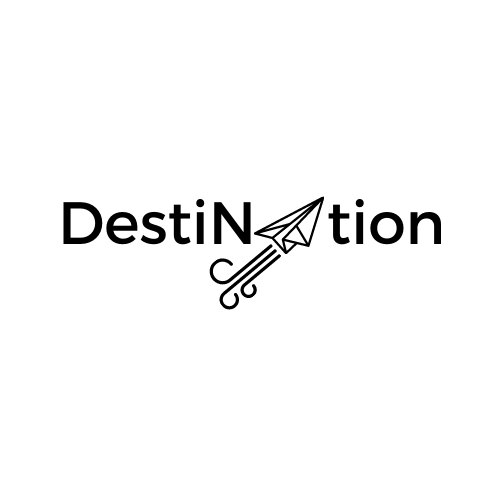
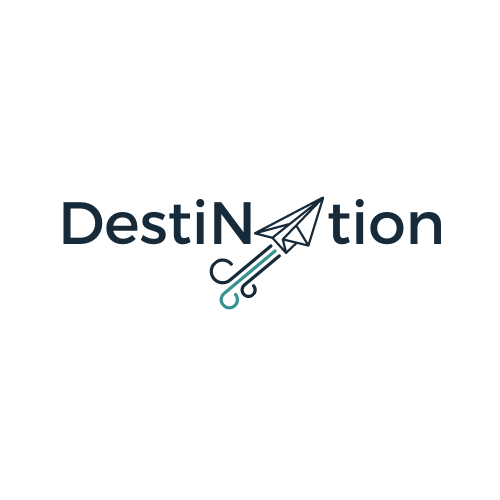
adds addtl styling to app

Changed region(s): [[0.12, 0.39, 0.9, 0.63]]

diff --git a/main_app/static/css/styles.css b/main_app/static/css/styles.css
@@ -1,9 +1,9 @@
 :root {
     --primary-font: 'Montserrat', sans-serif;
-    --blue: #172A3A;
-    --teal: #379392;
-    --red: #ED6A5A;
-    --tan: #FCECC9;
+    --primary-color: #172A3A;
+    --secondary-color: #379392;
+    --dn-red: #ED6A5A;
+    --dn-tan: #FCECC9;
 }
 
 * {
@@ -19,8 +19,11 @@
 
 .dn-header {
     display: flex;
-    background: bisque;
+    background: #ffffff;
     height: 100px;
+    position: sticky;
+    top: 0;
+    z-index: 999;
 }
 
 .dn-nav {
@@ -55,17 +58,28 @@
 }
 
 .dn-nav-item-link {
-    color: #272525;
+    color: var(--primary-color);
 }
 
 .dn-nav-item-link:hover {
-    color: #ffffff;
+    color: var(--secondary-color);
     transition: 0.2s ease-out;
+    font-weight: 600;
+}
+
+.dn-nav-item-link-logout {
+    color: var(--primary-color);
+}
+
+.dn-nav-item-link-logout:hover {
+    color: var(--dn-red);
+    transition: 0.2s ease-out;
+    font-weight: 600;
 }
 
 .dn-logo-home {
-    height: 350px;
-    width: 350px;
+    height: 400px;
+    width: 400px;
 }
 
 .trip-form-body {
@@ -95,15 +109,39 @@
     box-shadow: 0px 4px 15px 0px rgba(0, 0, 0, 0.2);
 }
 
+.flight-inspiration {
+    margin-top: 40px;
+    font-family: var(--primary-font);
+    display: flex;
+    justify-content: center;
+    align-items: center;
+    flex-direction: column;
+    padding: 40px;
+    color: var(--secondary-color);
+}
+
+.flight-insp-header {
+    font-size: 60px;
+    font-weight: 600;
+}
+
+.flight-insp-text {
+    font-size: 20px;
+    color: var(--primary-color);
+}
+
 .flight-heading {
     font-family: var(--primary-font);
     font-size: 40px;
     margin-bottom: 20px;
+    color: var(--secondary-color);
+    border-bottom: 1px solid var(--secondary-color);
+    padding: 0 0 8px 0;
 }
 
 .flight-body {
     display: grid;
-    grid-template-columns: 300px 300px;
+    grid-template-columns: 350px 350px;
     grid-template-rows: auto;
     grid-template-areas:
     "flight-form-container flight-results"
@@ -134,7 +172,8 @@ table {
 }
 
 th {
-   
+    background-color: var(--dn-red);
+    color: white;
 }
 
 .flight-table-container {
@@ -168,13 +207,20 @@ th {
 .dn-btn {
     border: none;
     border-radius: 4px;
-    background-color: #272525;
+    background-color: var(--secondary-color);
     height: 35px;
     width: 100px;
     color: #ffffff;
     cursor: pointer;
     box-shadow: 0px 4px 20px 0px rgba(0, 0, 0, 0.2);
     outline: none;
+}
+
+.dn-btn:hover {
+    background-color: var(--secondary-color);
+    box-shadow: 0px 4px 10px 0px rgba(0, 0, 0, 0.2);
+    font-weight: 600;
+    opacity: 0.88;
 }
 
 .dn-logo-footer {
@@ -192,10 +238,12 @@ th {
     align-items: center;
     flex: 1 0 auto;
     padding: 0 20px 0 20px;
+    flex-grow: 1;
 }
 
 p {
     font-family: var(--primary-font);
+    color: var(--primary-color);
 }
 
 .dn-title {
@@ -205,10 +253,14 @@ p {
 .dn-footer {
     padding-top: 0;
     text-align: center;
-    background: bisque;
+    background: var(--primary-color);
     height: 200px;
     display: flex;
     justify-content: center;
     align-items: center;
     flex-direction: column;
+}
+
+.dn-footer > p {
+    color: #ffffff;
 }

diff --git a/main_app/templates/base.html b/main_app/templates/base.html
@@ -35,7 +35,7 @@
                     <a href="{% url 'flight_search' %}" class="dn-nav-item-link" style="text-decoration: none">Flight Inspiration</a>
                 </li>
                 <li class="dn-nav-item">
-                    <a href="#" class="dn-nav-item-link" style="text-decoration: none">Log Out</a>
+                    <a href="#" class="dn-nav-item-link-logout" style="text-decoration: none">Log Out</a>
                 </li>
             </ul>
             {% comment %}
@@ -59,7 +59,7 @@
     </main>
     <footer class="dn-footer">
         <p>All Rights Reserved &copy; 2021 DestiNation</p>
-        <img src="{% static 'img/DestiNationSecondary.png' %}" alt="Logo" class="dn-logo-footer">
+        <img src="{% static 'img/DestiNation2white.png' %}" alt="Logo" class="dn-logo-footer">
     </footer>
 </body>
 </html>

diff --git a/main_app/templates/flight_search.html b/main_app/templates/flight_search.html
@@ -4,6 +4,10 @@
 
 {% block content %}
 <div>
+    <div class="flight-inspiration">
+        <h1 class="flight-insp-header">Flight Inspiration</h1>
+        <p class="flight-insp-text">Search Top Flight Destinations Based Off Location</p>
+    </div>
     <div class="flight-body">
         <div class="flight-form-container">
             <form action="" method="POST" id="form_id" class="flight-form">

diff --git a/main_app/urls.py b/main_app/urls.py
@@ -4,7 +4,7 @@ from . import views
 urlpatterns = [
     path('', views.home, name='home'),
     path('trips/', views.trips_index, name='trips_index'),
-    path('trips/<int:trip_id>/', views.trips_detail, name='trips_detail'),
+    path('trips/<int:trip_id>/', views.trips_detail, name='detail'),
     path('trips/create/', views.TripCreate.as_view(), name='trips_create'),
     path('flight_search/', views.flight_search, name='flight_search'),
 ]

diff --git a/main_app/models.py b/main_app/models.py
@@ -23,7 +23,7 @@ class Trip(models.Model):
 	friends = models.ManyToManyField(Friend)
 	
 
-	user = models.ForeignKey(User, on_delete= models.CASCADE)
+	# user = models.ForeignKey(User, on_delete= models.CASCADE)
 
 	
 	def __str__(self):
